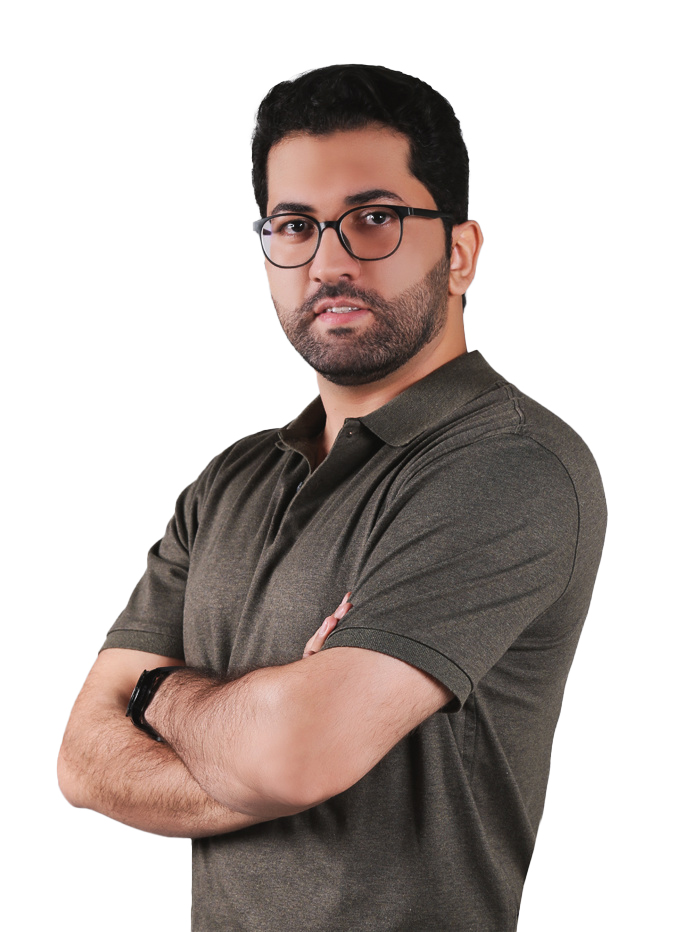
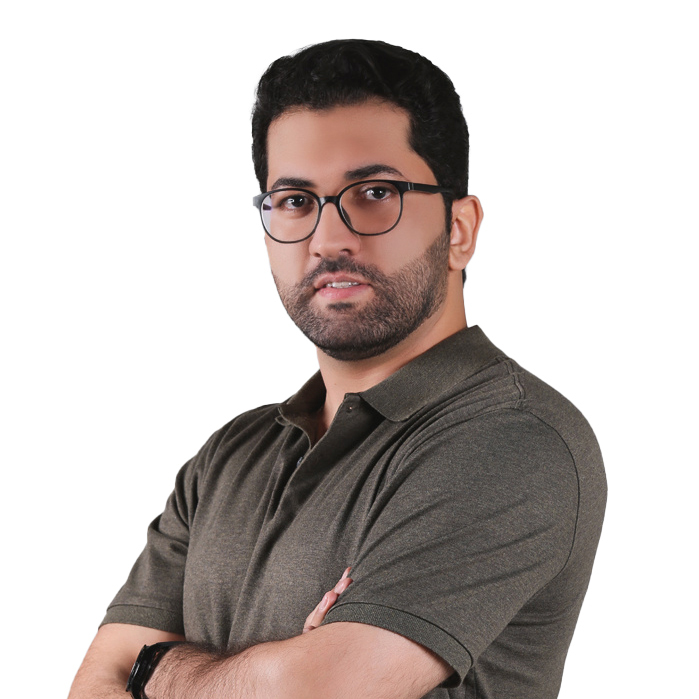
Update thumbnails

diff --git a/_projects/3_project.md b/_projects/3_project.md
@@ -2,7 +2,7 @@
 layout: page
 title: ZK60 + REE
 description: Expanding Tribological Insights on ZK60 Magnesium Alloys with Rare Earth Element Additions
-img: assets/img/ZK60_Project.JPG
+img: assets/img/cover_ZK60_Project.jpg
 importance: 3
 category: research
 related_publications: true

diff --git a/_projects/5_project.md b/_projects/5_project.md
@@ -2,7 +2,7 @@
 layout: page
 title: GZ31 + Ag
 description: Development of GZ31 Magnesium Alloy with Minor Ag Addition
-img: assets/img/GZ31_Project.jpg
+img: assets/img/cover_GZ31_Project.jpg
 importance: 1
 category: research
 ---

diff --git a/_projects/4_project.md b/_projects/4_project.md
@@ -2,7 +2,7 @@
 layout: page
 title: WE43 + B4C
 description: Developing a Novel Magnesium Matrix Composite
-img: assets/img/WE43_Project.jpg
+img: assets/img/cover_WE43_Project.jpg
 importance: 2
 category: research
 ---
